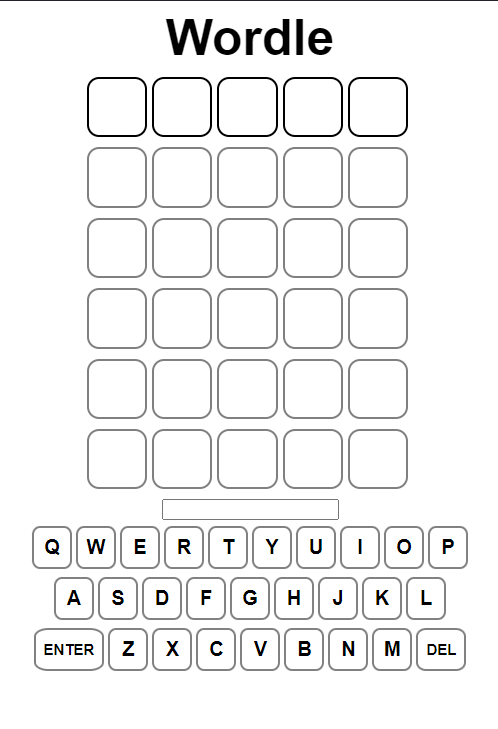
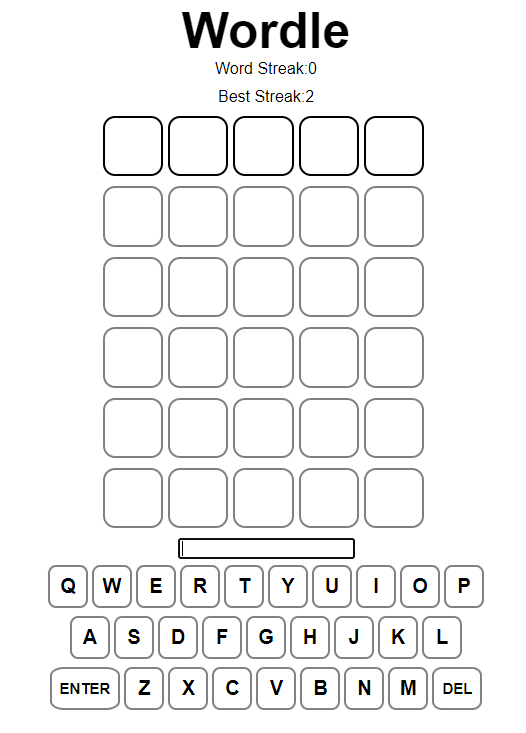
updated wordle project on portfolio page

Changed region(s): [[0.0602, 0.0, 0.9639, 0.9657], [0.7831, 0.0905, 0.8133, 0.1207], [0.1807, 0.0905, 0.2108, 0.1207]]

diff --git a/portfolio/public/projects.html b/portfolio/public/projects.html
@@ -26,7 +26,7 @@
                 </div>
                 <div class="pdescription">
                     <h3><span class="p-subtitle">Description<br></span></h3>
-                    <span class="text">Wordle clone based on the NYtimes wordle game<br></span>
+                    <span class="text">Wordle clone based on the NYtimes wordle game with a PHP server and API<br></span>
                     <h3><span class="p-subtitle">How to play:<br></span></h3>
                     <span class="text">
                         The player has 6 guess to guess a random 5 letter word selected from a pool of words.<br>
@@ -35,6 +35,8 @@
                         Yellow means the letter exists in the word but not in the correct position. <br>
                         Gray means the letter is not in the word.<br>
                         The player wins if the word is guessed and loses if the word is not guessed after 6 tries. <br>
+                        The game will keep track of your current correct word guess streak. <br>
+                        Once a word is not guessed, the score is saved as the best streak.
                     </span>
 
                 </div>
@@ -44,6 +46,7 @@
                         <li>HTML</li>
                         <li>CSS</li>
                         <li>Javascript</li>
+                        <li>PHP</li>
                     </ul>
                 </div>
             </div>
